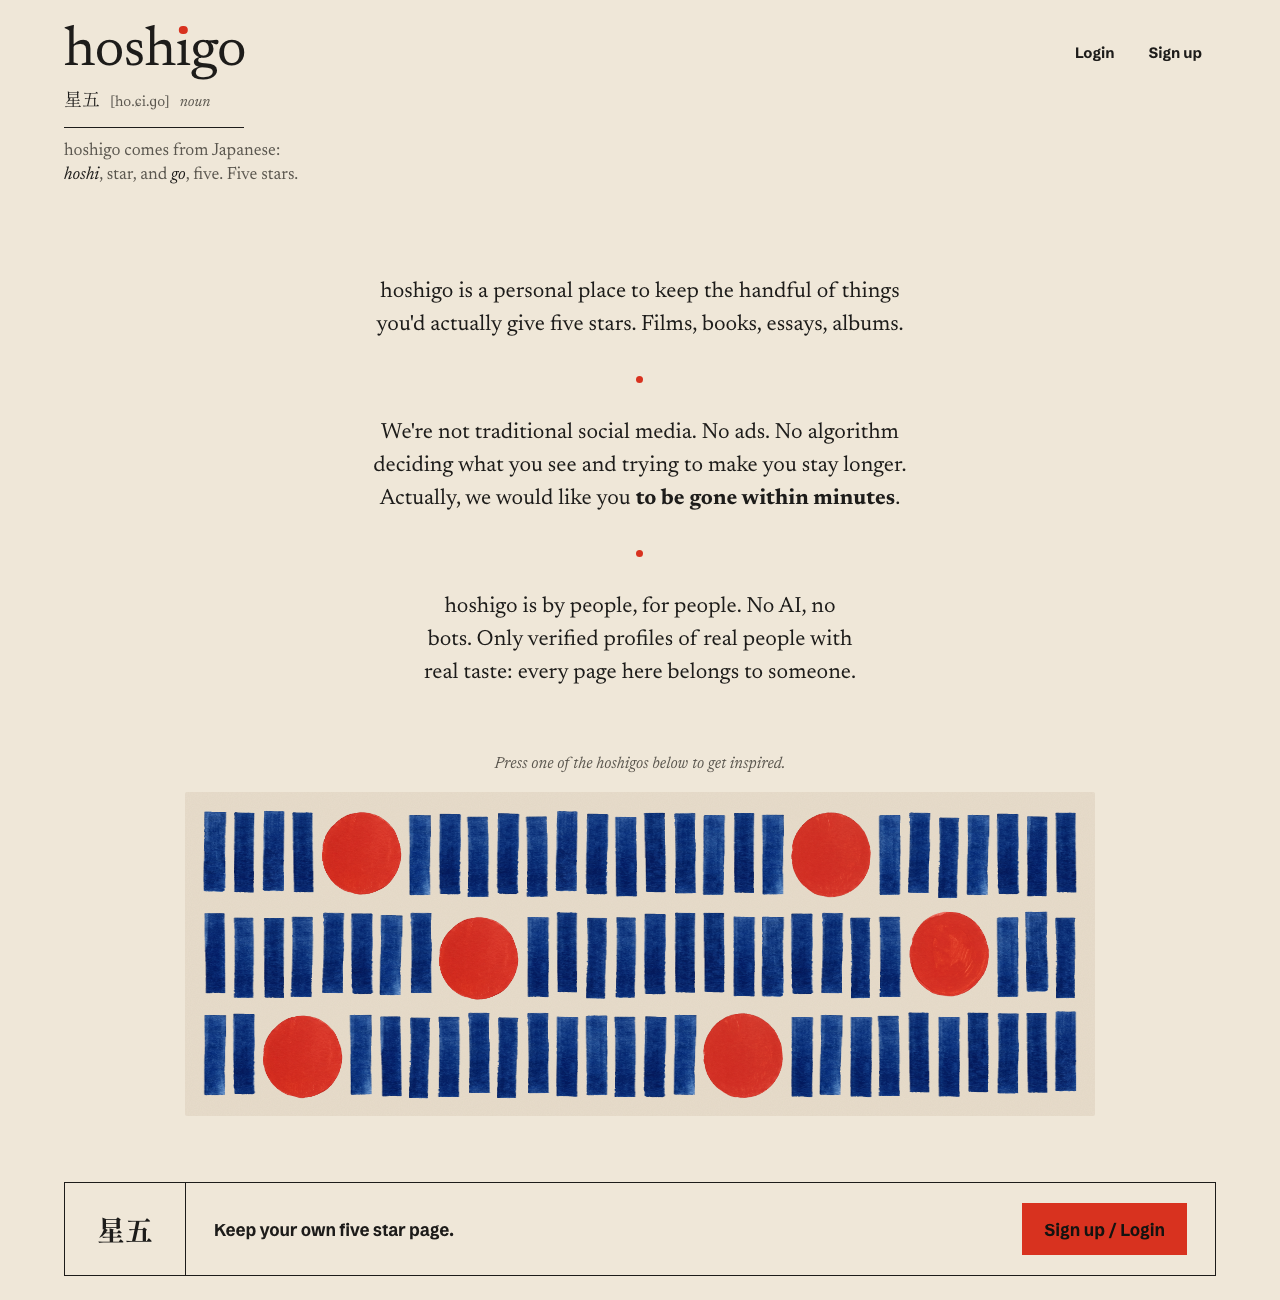
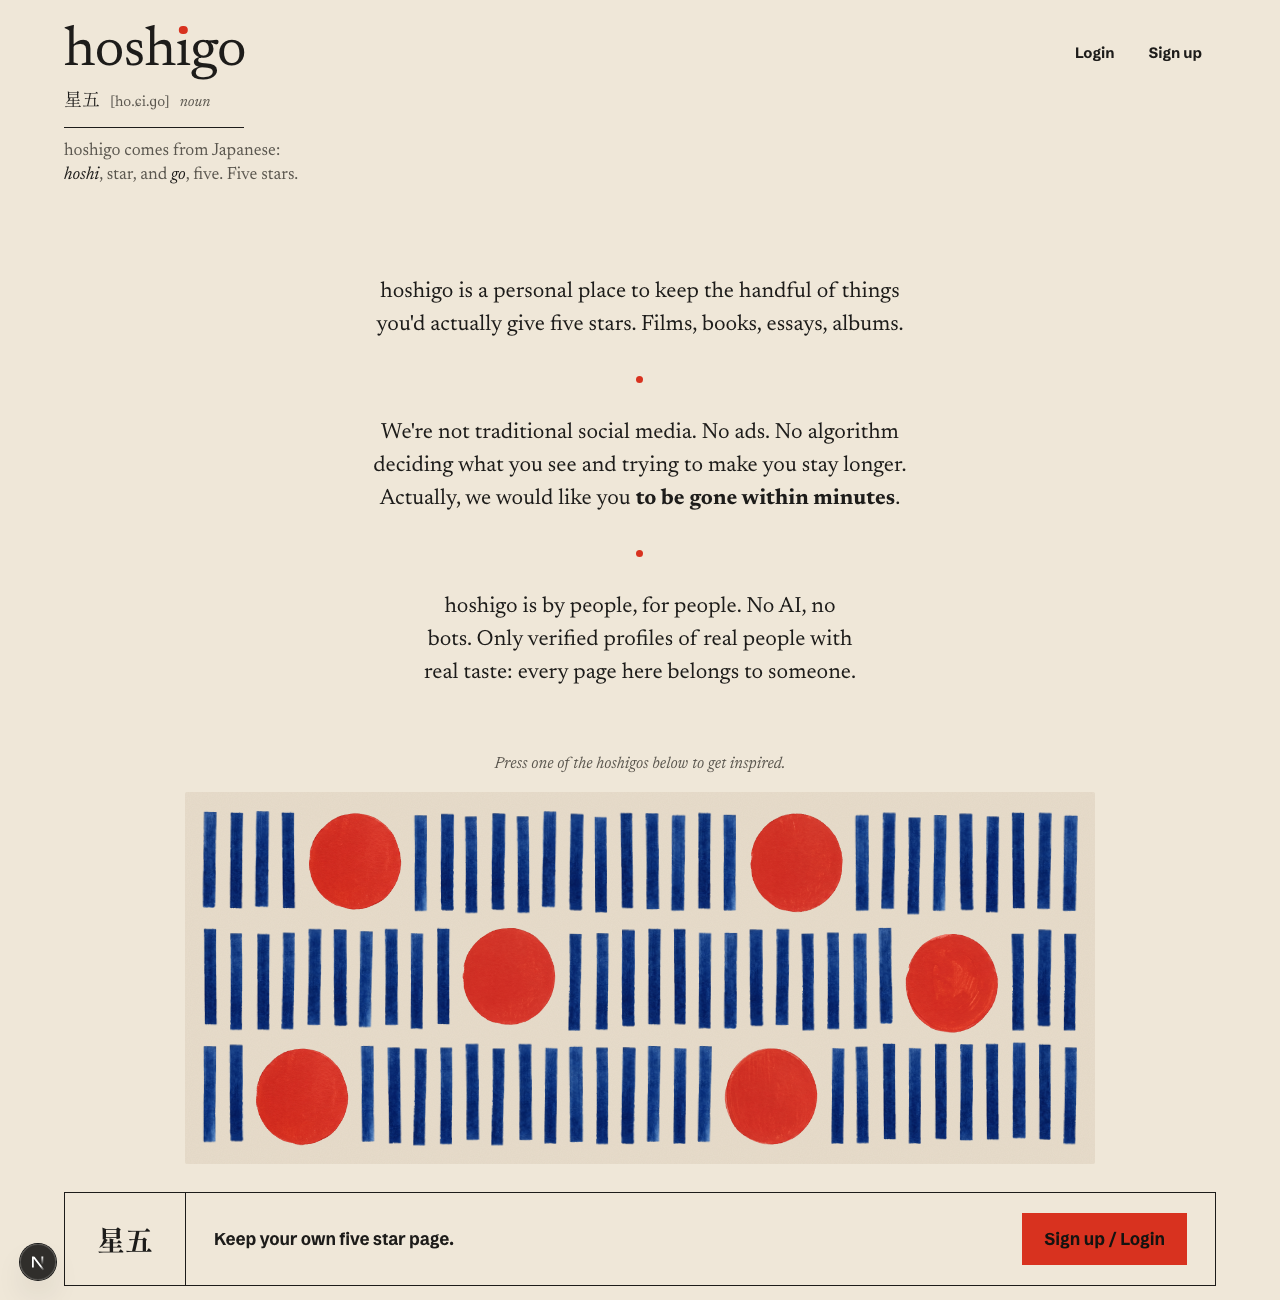
Hero round 3: bars keep their painted shape, denser rhythm, 26/16/10 bars per row

diff --git a/src/app/page.tsx b/src/app/page.tsx
@@ -55,7 +55,6 @@ export default async function HomePage({
             </p>
           </div>
           <SiteNav />
-
         </div>
       </header>
 
@@ -97,12 +96,12 @@ const CIRCLE_SIZES: [number, number][] = [[300, 310], [300, 315], [300, 313], [3
 
 // Separate layouts per width instead of shrinking one: the drawing keeps its
 // stroke size and simply loses bars. Numbers are the bar index a circle sits
-// before. A circle spans about 3 bar slots, so circles in adjacent rows sit at
-// least 4 slots apart and never overlap.
+// before. A circle spans about 4 bar slots, so circles in adjacent rows sit at
+// least 5 slots apart and never overlap.
 const HERO_LAYOUTS: { name: string; bars: number; circles: number[][] }[] = [
-  { name: "wide", bars: 24, circles: [[4, 17], [8, 21], [2, 14]] },
-  { name: "mid", bars: 16, circles: [[3, 11], [7, 15], [2, 11]] },
-  { name: "narrow", bars: 8, circles: [[1], [6], [2]] },
+  { name: "wide", bars: 26, circles: [[4, 17], [10, 23], [2, 16]] },
+  { name: "mid", bars: 16, circles: [[2, 10], [8, 16], [1, 10]] },
+  { name: "narrow", bars: 10, circles: [[0], [7], [1]] },
 ];
 
 // Deterministic so server and client render the same drawing.

diff --git a/src/app/globals.css b/src/app/globals.css
@@ -409,12 +409,12 @@ h1 {
   border-radius: 2px;
 }
 
-/* --h is the circle diameter and bar height. Each bar slot is 0.36h (0.28h
-   stroke plus gap), each circle about 1.08h, so a row of B bars and C circles
-   is 0.36B + 1.08C heights wide. */
-.hero-narrow { display: flex; --slots: 3.96; }
-.hero-mid { --slots: 7.92; }
-.hero-wide { --slots: 10.8; }
+/* --h is the circle diameter and bar height. Bars keep their painted shape
+   (about 0.14h wide) plus an equal gap, so a bar slot is 0.27h and a circle
+   with its margins 1.13h; a row of B bars and C circles is 0.27B + 1.13C. */
+.hero-narrow { display: flex; --slots: 3.83; }
+.hero-mid { --slots: 6.58; }
+.hero-wide { --slots: 9.28; }
 
 @media (min-width: 600px) {
   .hero-narrow { display: none; }
@@ -447,8 +447,8 @@ h1 {
 
 .hero-bar img {
   display: block;
-  width: calc(var(--h) * 0.28);
-  height: var(--h);
+  width: auto;
+  height: calc(var(--h) * 1.03);
 }
 
 .hero-circle {
